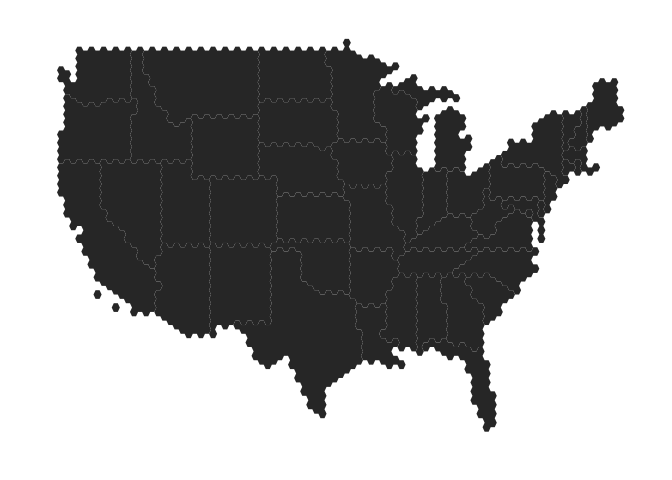
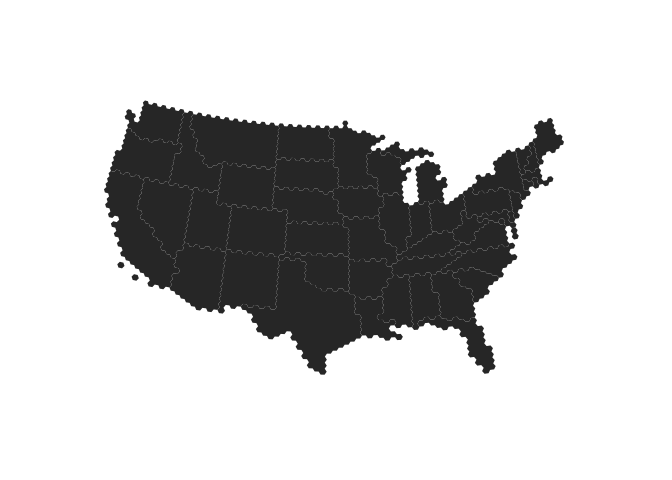
README

diff --git a/README.md b/README.md
@@ -1,11 +1,14 @@
 <!-- README.md is generated from README.Rmd. Please edit that file -->
-[![Build Status](https://travis-ci.org/hrbrmstr/lineworkmaps.svg)](https://travis-ci.org/hrbrmstr/lineworkmaps) ![Project Status: Concept - Minimal or no implementation has been done yet.](http://www.repostatus.org/badges/0.1.0/concept.svg)](<http://www.repostatus.org/#concept>) [![CRAN\_Status\_Badge](http://www.r-pkg.org/badges/version/lineworkmaps)](http://cran.r-project.org/web/packages/lineworkmaps) ![downloads](http://cranlogs.r-pkg.org/badges/grand-total/lineworkmaps)
-
-lineworkmaps is ...
+lineworkmaps is compilation of [Project Linework](http://projectlinework.org/) maps in `SpatialPolygonsDataFrame` and `ggplot2` fortified objects ready for mapping.
 
 The following functions are implemented:
 
+-   `lineworks` : Return vector of available linework shapes and optionally print verbose description of shapfile data elements.
+-   `linework_map` : Retrieve a linework map as a regular or fortified `SpatialPolygonsDataFrame`
+
 The following data sets are included:
+
+-   `linework` : Project Linework spatial & fortified objects
 
 ### News
 
@@ -45,6 +48,7 @@ us <- wargames[wargames$iso_a2=="US" &
 
 ggplot(us) +
   geom_map(map=us, aes(x=long, y=lat, map_id=id)) +
+  coord_map(project="albers", lat0=37.5, lat1=29.5) +
   theme_map()
 ```
 
@@ -220,7 +224,7 @@ library(lineworkmaps)
 library(testthat)
 
 date()
-#> [1] "Mon Jul 20 23:30:33 2015"
+#> [1] "Mon Jul 20 23:37:52 2015"
 
 test_dir("tests/")
 #> testthat results ========================================================================================================
